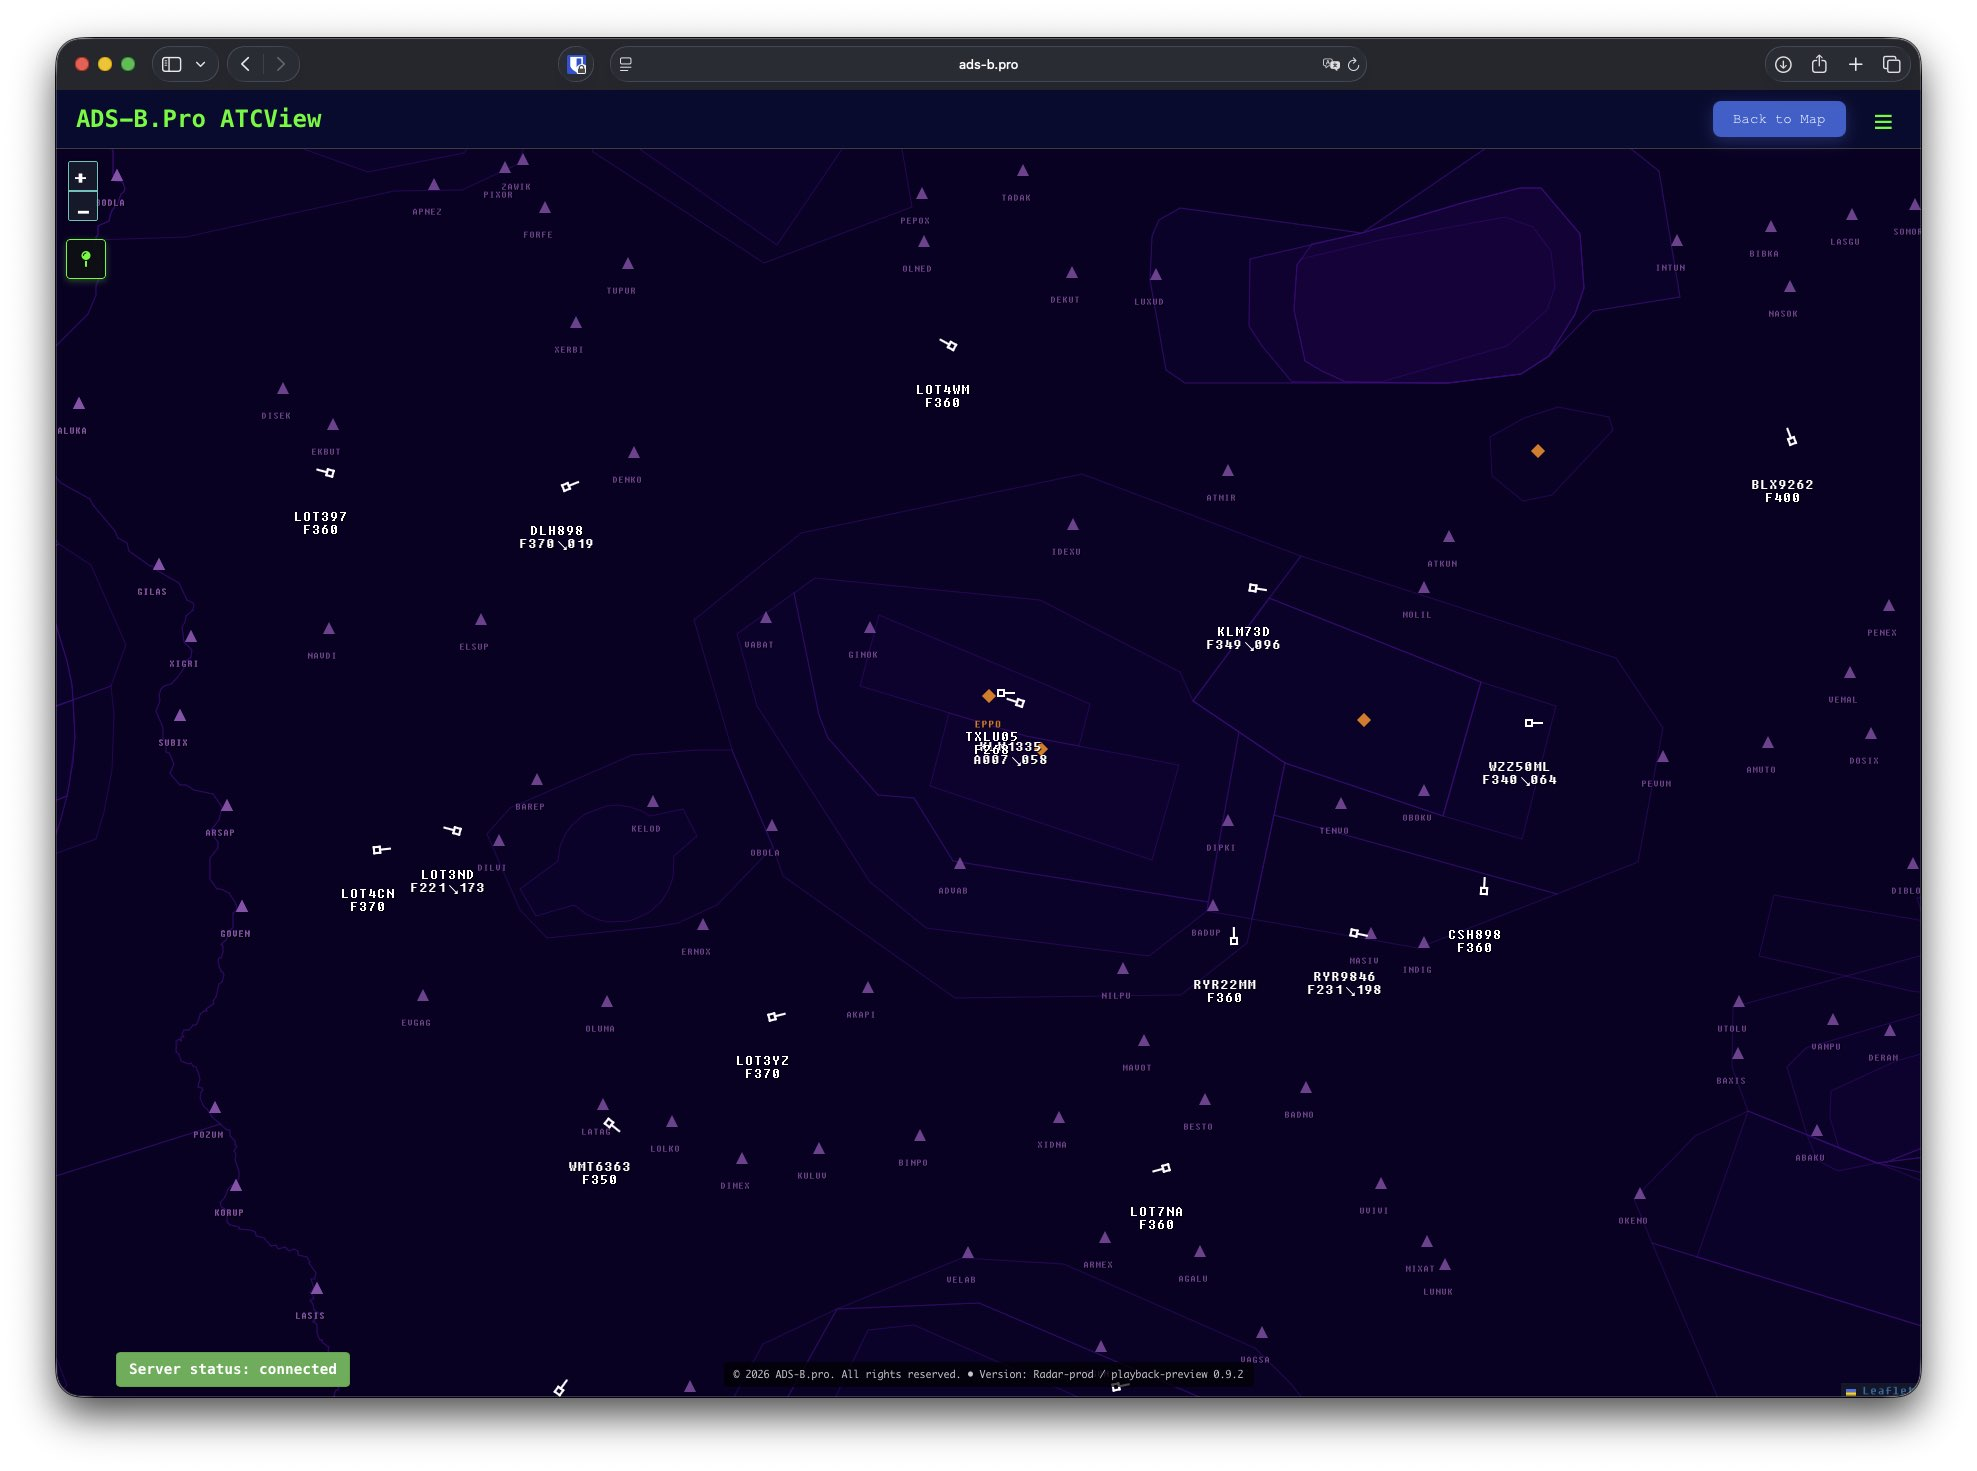
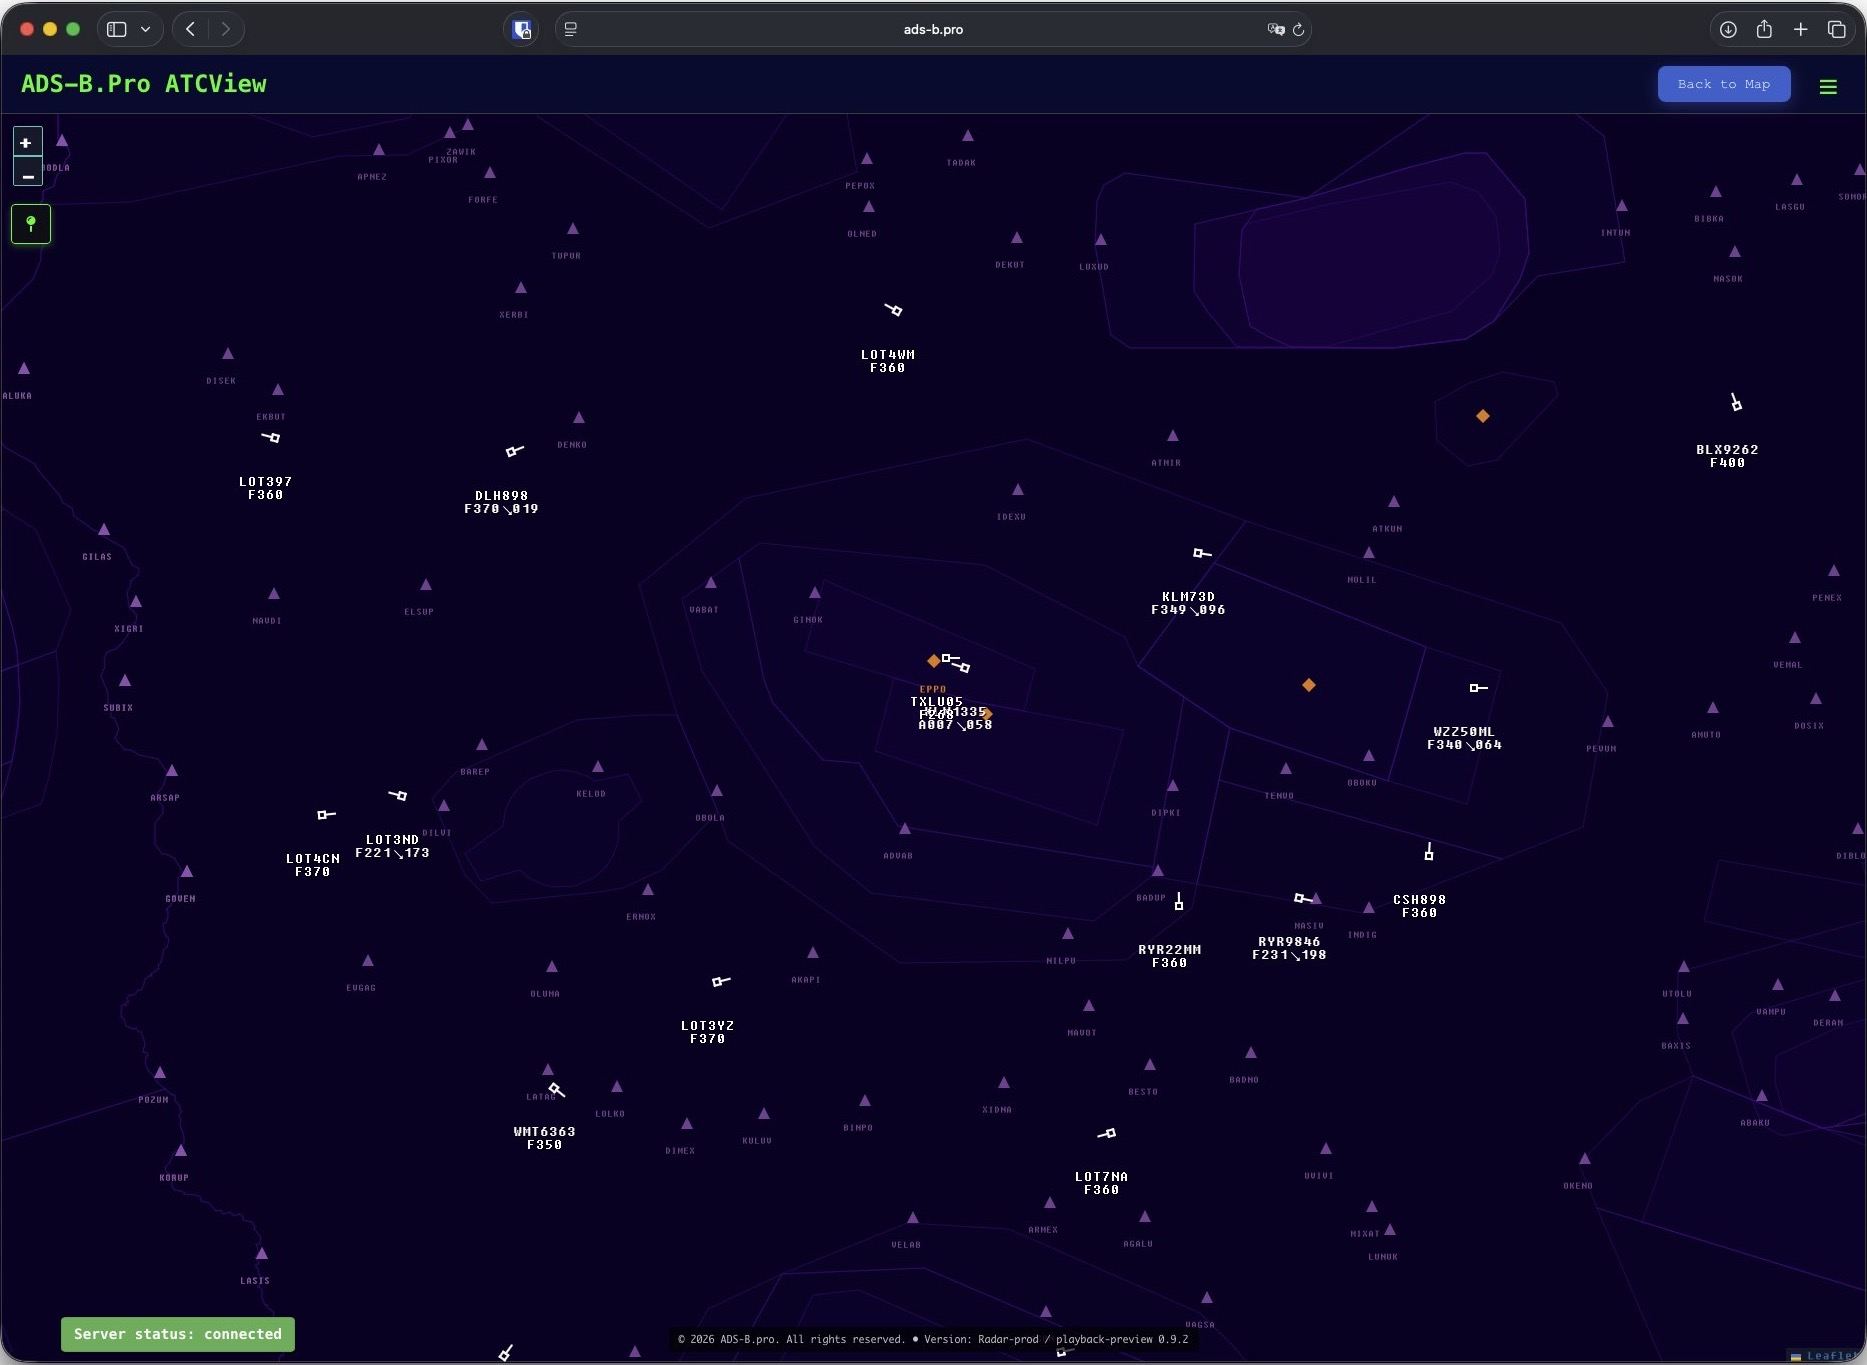
Refine portfolio previews

diff --git a/components/SitePage.tsx b/components/SitePage.tsx
@@ -8,6 +8,7 @@ interface WorkItem {
   title: string;
   description: string;
   image?: string;
+  imageAlt?: string;
   href?: string;
   tags: string[];
 }
@@ -126,6 +127,7 @@ const content: Record<Locale, SiteCopy> = {
         description:
           'System do wizualizacji ruchu lotniczego w czasie rzeczywistym: dane ADS-B, rendering śladów lotów, backend i warstwa prezentacji.',
         image: '/radarview.jpg',
+        imageAlt: 'Podgląd interfejsu ADS-B.Pro RadarView',
         tags: ['ADS-B', 'real-time data', 'maps', 'backend'],
       },
       {
@@ -133,6 +135,7 @@ const content: Record<Locale, SiteCopy> = {
         description:
           'Nowoczesna implementacja aplikacji do śledzenia ruchu lotniczego oparta o .NET 10 i nowszą architekturę usługową.',
         image: '/vrsx.jpg',
+        imageAlt: 'Podgląd interfejsu VRS X',
         tags: ['.NET', 'tracking', 'architecture', 'aviation'],
       },
     ],
@@ -144,6 +147,8 @@ const content: Record<Locale, SiteCopy> = {
         title: 'Maja-Dekoracje',
         description:
           'Odświeżenie strony firmy usługowej z branży budowlano-ogrodowej: czytelniejsza oferta, lepszy układ usług i przygotowanie pod klientów z Google.',
+        image: '/maja-dekoracje.jpg',
+        imageAlt: 'Podgląd strony Maja-Dekoracje',
         href: 'https://maja-dekoracje.pl',
         tags: ['website refresh', 'local SEO', 'mobile', 'services'],
       },
@@ -254,6 +259,7 @@ const content: Record<Locale, SiteCopy> = {
         description:
           'Real-time air traffic visualization system: ADS-B data, flight track rendering, backend and presentation layer.',
         image: '/radarview.jpg',
+        imageAlt: 'ADS-B.Pro RadarView interface preview',
         tags: ['ADS-B', 'real-time data', 'maps', 'backend'],
       },
       {
@@ -261,6 +267,7 @@ const content: Record<Locale, SiteCopy> = {
         description:
           'Modern implementation of an air traffic tracking application based on .NET 10 and a newer service architecture.',
         image: '/vrsx.jpg',
+        imageAlt: 'VRS X interface preview',
         tags: ['.NET', 'tracking', 'architecture', 'aviation'],
       },
     ],
@@ -272,6 +279,8 @@ const content: Record<Locale, SiteCopy> = {
         title: 'Maja-Dekoracje',
         description:
           'Website refresh for a construction and garden services company: clearer offer, better service layout and preparation for clients coming from Google.',
+        image: '/maja-dekoracje.jpg',
+        imageAlt: 'Maja-Dekoracje website preview',
         href: 'https://maja-dekoracje.pl',
         tags: ['website refresh', 'local SEO', 'mobile', 'services'],
       },
@@ -347,13 +356,13 @@ function WorkCard({ item }: { item: WorkItem }) {
         <div className="border-b border-emerald-500/20 bg-black">
           <img
             src={item.image}
-            alt=""
+            alt={item.imageAlt || item.title}
             className="h-56 w-full object-cover opacity-75 contrast-125 saturate-75 transition duration-300 group-hover:opacity-100 group-hover:saturate-100"
           />
         </div>
       ) : (
         <div className="flex h-56 items-center justify-center border-b border-dashed border-emerald-500/20 bg-black/50 text-sm text-emerald-500/70">
-          [ internal_tool.preview ]
+          [ preview unavailable ]
         </div>
       )}
       <div className="p-6">
@@ -416,6 +425,8 @@ export default function SitePage({ copy }: { copy: SiteCopy }) {
         name: 'Cloudvance',
         url: siteUrl,
         email: 'bruno@stelmaszyk.dev',
+        telephone: '+48517230580',
+        image: `${siteUrl}/radarview.jpg`,
         founder: { '@id': `${siteUrl}/#person` },
       },
       {
@@ -423,6 +434,10 @@ export default function SitePage({ copy }: { copy: SiteCopy }) {
         '@id': `${siteUrl}/#professional-service`,
         name: 'Cloudvance - IT, cloud and websites',
         url: siteUrl,
+        telephone: '+48517230580',
+        email: 'bruno@stelmaszyk.dev',
+        image: `${siteUrl}/radarview.jpg`,
+        priceRange: 'Wycena indywidualna',
         provider: { '@id': `${siteUrl}/#organization` },
         areaServed: ['PL', 'EU'],
         serviceType: [

diff --git a/components/SEO.tsx b/components/SEO.tsx
@@ -105,8 +105,8 @@ export default function SEO({
       <meta property="og:url" content={pageUrl} />
       <meta property="og:site_name" content={defaultMeta.siteName} />
       <meta property="og:image" content={`${defaultMeta.url}${ogImage}`} />
-      <meta property="og:image:width" content="1977" />
-      <meta property="og:image:height" content="1471" />
+      <meta property="og:image:width" content="1867" />
+      <meta property="og:image:height" content="1365" />
       <meta property="og:image:alt" content={pageTitle} />
       
       {/* Twitter Card */}
